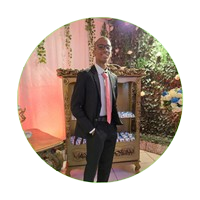
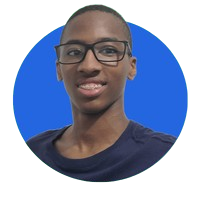
Atualização Geral

diff --git a/index.html b/index.html
@@ -14,41 +14,38 @@
         <section>
             <h1>Misael Cunha</h1>
 
+            <img src="img/Logo.png">
+
             <nav class="navegacao">
-                <a href="#inicio">Inicio</a>
-                <a href="#">Sobre mim</a>
+                <a href="#sobre-mim">Sobre mim</a>
                 <a href="#">Serviços</a>
                 <a href="#">Projetos</a>
                 <a href="#">Contato</a>
             </nav>
         </section>
     </header>
+    <main>
+        <div class="secao">
+            <section id="sobre-mim">
+                <img src="img/Perfil.png" alt="Misael Cunha">
 
-    <!-- GUIA: INICIO -->
-    <div class="inicio-conteiner">
-        <section id="inicio">
-            <img class="perfil" src="img/Perfil.png" alt="Misael Cunha">
-            <h2>Misael Cunha</h2>
-            <p class="bio">Estudante de Front-End</p>
-            <p class="conteudo">
-                Sou estudante de <b class="destaque">Front-End</b>, com foco na criação de <b class="destaque">páginas estáticas e landing pages</b> utilizando <b class="destaque">HTML</b> e <b class="destaque">CSS</b>. Busco desenvolver interfaces limpas, organizadas e responsivas, sempre priorizando uma boa experiência para o usuário.
-            </p>
+                <div class="apres">
+                    <p>Olá, eu sou um</p>
+                    <h1>DESENVOLVEDOR FRONT-END</h1>
+                    <p>Me chamo <b class="destaque">Misael Cunha</b>, tenho 18 anos e trabalho como <b class="destaque">desenvolvedor front-end freelancer</b>. Sou
+                        especializado na criação de sites e landing pages modernas, claras e funcionais.
+                        Meu objetivo é transformar ideias em páginas bem organizadas, visualmente atrativas e que se
+                        adaptam perfeitamente a <b class="destaque">celulares, tablets e computadores</b>.
+                        Prezo por uma comunicação simples, atenção aos detalhes e foco total na experiência do usuário,
+                        garantindo que cada projeto passe <b class="destaque">profissionalismo</b>, <b class="destaque">confiança</b> e gere <b class="destaque">bons resultados</b> para o
+                        cliente.</p>
 
-            <!-- CAIXAS CON TECH -->
-            <div class="boxes">
-                <div class="box">
-                    <img src="img/html.png" alt="HTML5">
-                    <p>HTML</p>
+                    <a class="botao" href="#">Ver projetos</a>
+                    <a class="botao" href="#">Entre em Contato</a>
                 </div>
-
-                <div class="box">
-                    <img src="img/css.png" alt="CSS3">
-                    <p>CSS</p>
-                </div>
-            </div>
-
-        </section>
-    </div>
+            </section>
+        </div>
+    </main>
 </body>
 
 </html>

diff --git a/style.css b/style.css
@@ -13,6 +13,22 @@
 }
 
 /* DEFINIÇÕES GLOBAIS */
+body {
+    background-image:
+        linear-gradient(rgba(233, 233, 233, 0.6),
+            rgba(233, 233, 233, 0.6)),
+        url("img/Fundo.png");
+    background-repeat: no-repeat;
+    background-attachment: fixed;
+    background-size: cover;
+}
+
+.secao {
+    background-color: #fff;
+    max-width: 1200px;
+    margin: 0 auto;
+}
+
 * {
     margin: 0;
     padding: 0;
@@ -39,7 +55,7 @@ section {
     left: 0;
     right: 0;
     z-index: 99;
-    background-color: var(--cor2);
+    background-color: var(--cor3);
     border-bottom: 2px solid rgb(138, 138, 138);
 }
 
@@ -56,8 +72,12 @@ section {
     color: #ffffff;
 }
 
+.header section img {
+    max-width: 100px;
+}
+
 .header section .navegacao a {
-    color: #e9e9e9;
+    color: white;
     margin: 10px;
     font-weight: 400;
 }
@@ -65,73 +85,4 @@ section {
 .header section .navegacao a:hover {
     color: var(--cor6);
     text-decoration: underline;
-}
-
-/* INICIO DA PÁGINA */
-.inicio-conteiner {
-    padding-top: 95px;
-    height: 100vh;
-    max-width: 1200px;
-    margin: 0 auto;
-}
-
-.inicio-conteiner section {
-    min-height: 100vh;
-    margin: 0 auto;
-    text-align: center;
-}
-
-.inicio-conteiner section > img {
-    border: 5px solid #e2e2e2;
-    border-radius: 50%;
-    width: 250px;
-}
-
-.inicio-conteiner section > h2 {
-    font-weight: bold;
-    font-size: 40px
-}
-
-.inicio-conteiner section .bio {
-    font-size: 23px;
-    color: #4e4e4e;
-}
-
-.inicio-conteiner section .conteudo {
-    text-align: justify;
-    font-size: 18px;
-    font-weight: 450;
-    max-width: 800px;
-    margin: 0 auto;
-    margin-top: 20px;
-}
-
-/* BOX DA PÁGINA */
-.boxes {
-    display: flex;
-    gap: 20px;
-    justify-content: center;
-    flex-wrap: wrap;
-}
-
-.box {
-    margin-top: 100px;
-    max-height: 200px;
-    min-width: 110px;
-    max-width: 150px;
-    box-shadow: 0 0 25px 5px #00000042;
-    background-color: white;
-    border-bottom: 3px solid #24A0E0;
-    border-radius: 5px 5px 0 0;
-}
-
-.box img {
-    margin-top: 10px;
-    width: 80px;
-}
-
-.box p {
-    font-weight: 500;
-    font-size: 21px;
-    color: #6d6d6d;
 }
